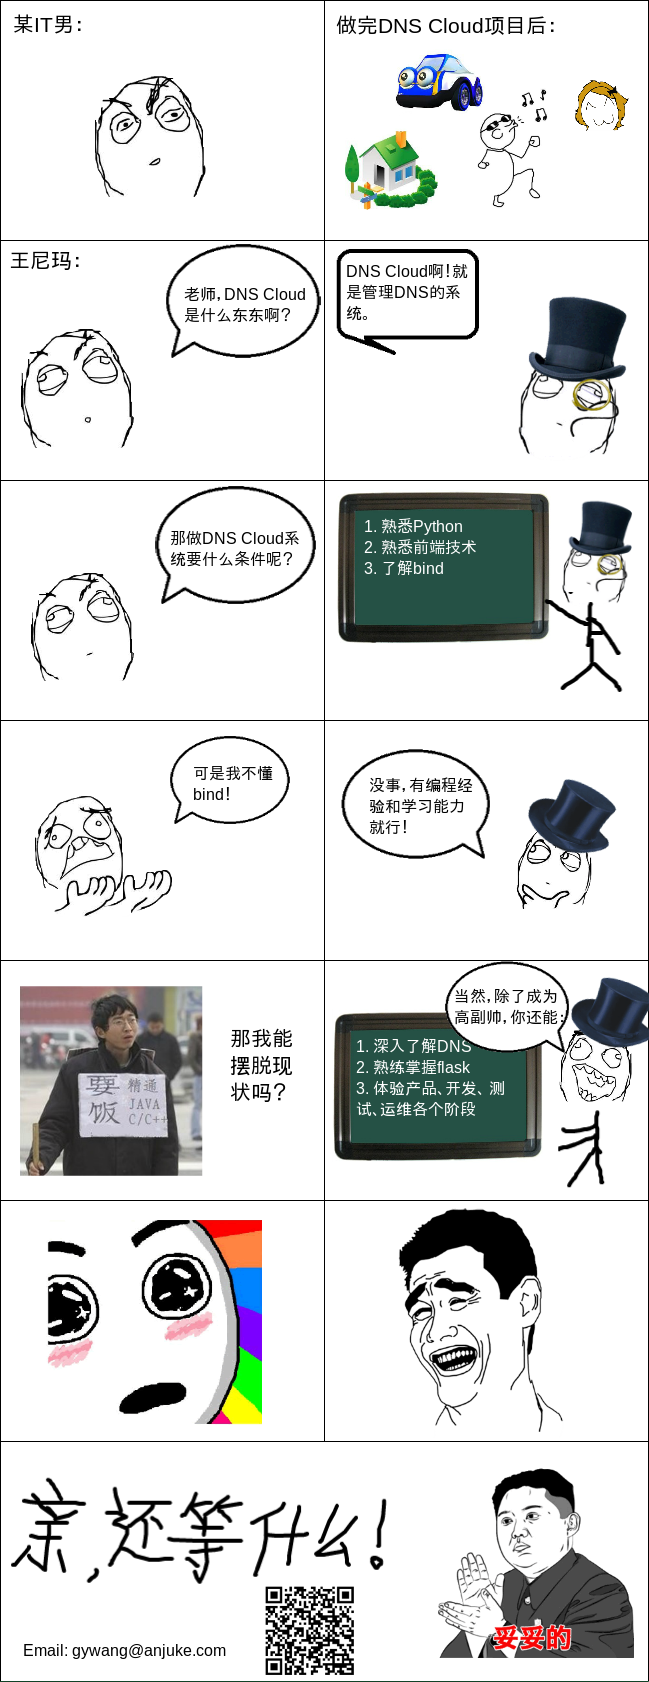
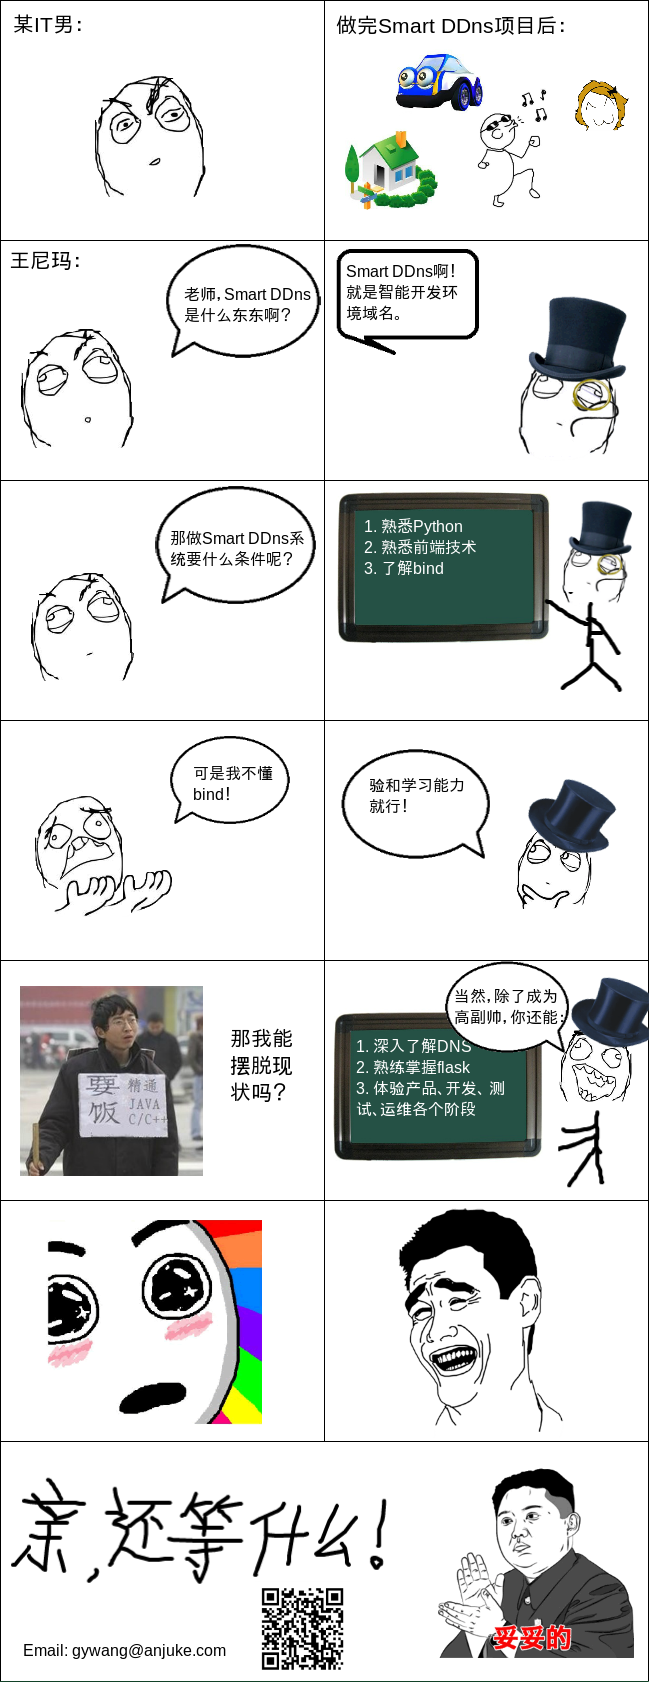
修改

diff --git a/README.md b/README.md
@@ -3,10 +3,11 @@
 ##项目基本信息
 
 __简称__: Smart DDns<br/>
-__全称__: Smart Dev DNS
+__全称__: Smart Dev DNS<br/>
 __人员__: 共3人，王根意(项目组长)、和那些个还没报名的你们！<br/>
 __时间__: 共2个半星期，2012-12-12 ～ 2013-12-28<br/>
 __目标__: 用户需要修给开发环境DNS的时候，只要访问一个Web页面即可实现<br/>
+__地址__: http://git.corp.anjuke.com/gywang/smart_ddns<br/>
 
 ##Smart DDns要解决什么问题？
 
